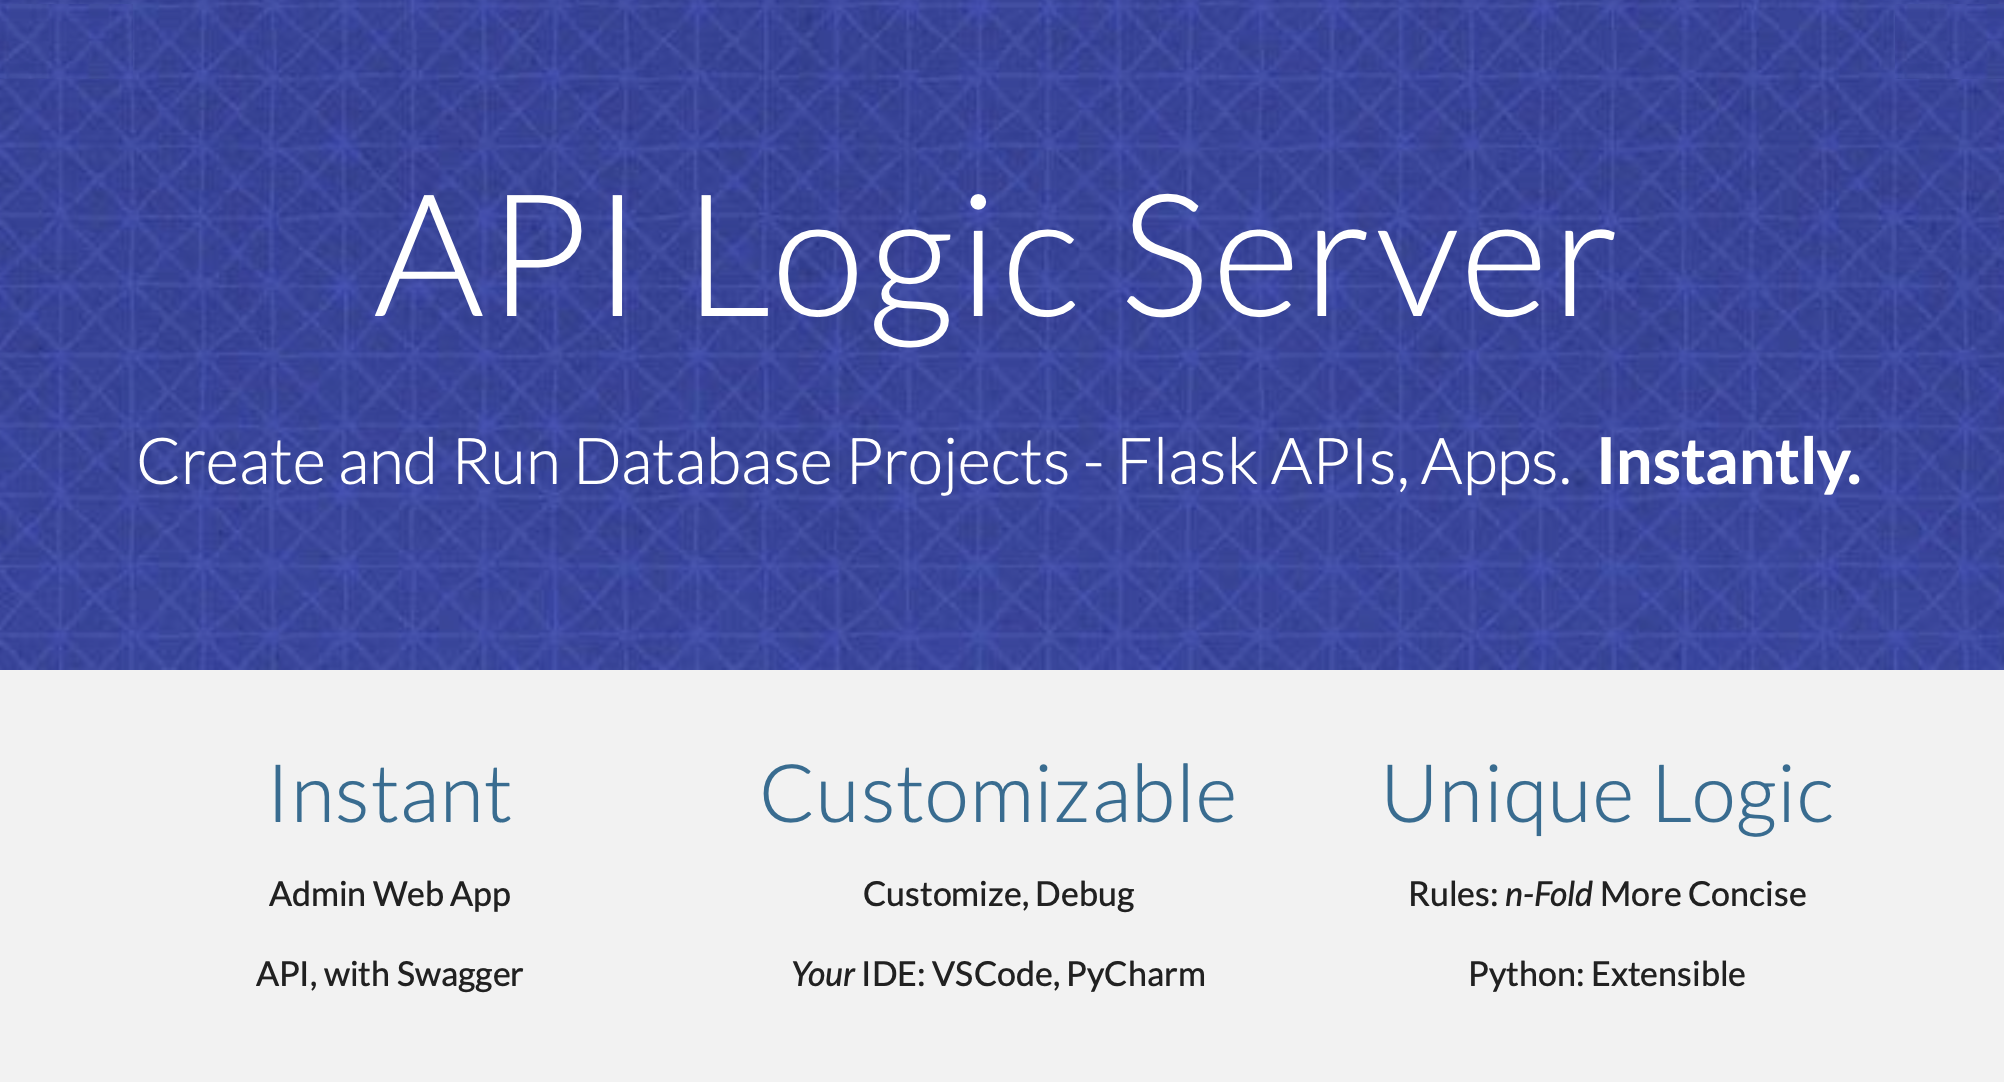
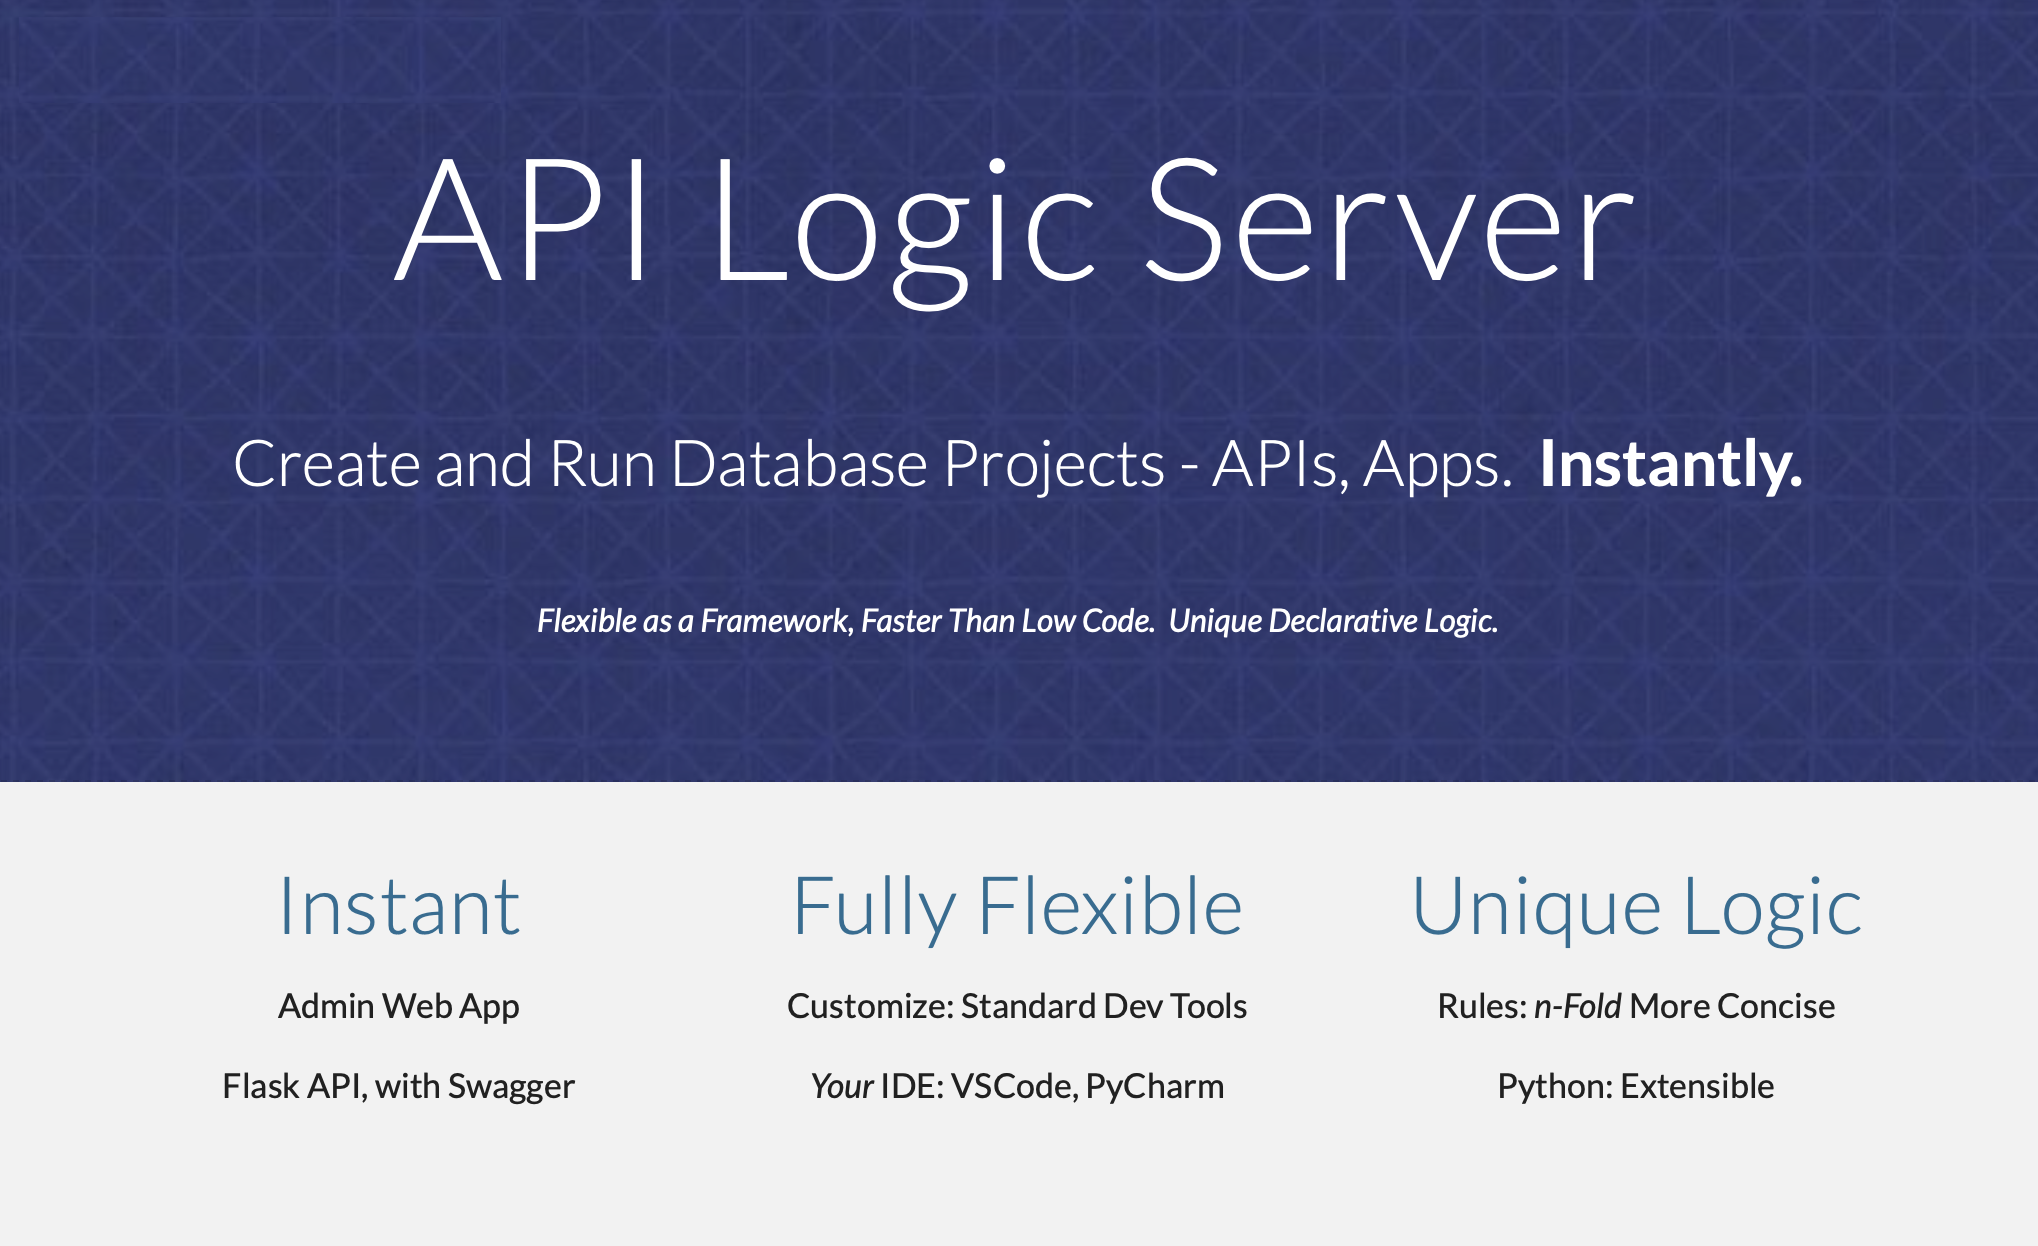
align customization / flexibility

diff --git a/docs/index.md b/docs/index.md
@@ -7,11 +7,12 @@ Description: Instantly Create and Run Database Projects - Flask, APIs, SQLAlchem
 [![Latest Version](https://img.shields.io/pypi/v/apilogicserver.svg)](https://pypi.python.org/pypi/apilogicserver/)
 [![Supported Python versions](https://img.shields.io/pypi/pyversions/apilogicserver.svg)](https://pypi.python.org/pypi/apilogicserver/)
 
-[![API Logic Server Intro](https://github.com/ApiLogicServer/Docs/blob/main/docs/images/hero-banner.png?raw=true)](https://apilogicserver.github.io/Docs/ "Single command creates executable, customizable Flask projects")
+[![API Logic Server Intro](images/hero-banner.png)](#instant-evaluation-no-install "Single command creates executable, customizable Flask projects")
+
 
 &nbsp;
 
-!!! pied-piper ":bulb: TL;DR - instant App/API, standard customization, *unique* declarative rules"
+!!! pied-piper ":bulb: TL;DR - instant App/API, fully flexible, *unique* declarative rules"
 
     API Logic Server is the **fastest and simplest** way to create **modern, scalable API-based database systems:**
 
@@ -20,13 +21,13 @@ Description: Instantly Create and Run Database Projects - Flask, APIs, SQLAlchem
         * **an Admin App:** multi-page, multi-table apps -- ready for business user agile collaboration
         * **an API:** end points for each table, with filtering, sorting, pagination and related data access -- ready for custom app dev
 
-    2. **Customize** and debug with the full flexibility of **<span style="background-color:Azure;">standard dev tools</span>**.  Use *your IDE (e.g. <span style="background-color:Azure;">VSCode, PyCharm</span>)*, <span style="background-color:Azure;">Python</span>, and Flask/SQLAlchemy to create new services.  Manage projects with <span style="background-color:Azure;">GitHub</span>.
+    2. **Fully Flexible:** customize and debug with **<span style="background-color:Azure;">standard dev tools</span>**.  Use *your IDE (e.g. <span style="background-color:Azure;">VSCode, PyCharm</span>)*, <span style="background-color:Azure;">Python</span>, and Flask/SQLAlchemy to create new services.  Manage projects with <span style="background-color:Azure;">GitHub</span>.
 
         * Flexible as a framework, Faster then Low Code for Admin Apps
 
-    3. ***Declare* security and multi-table constraint/validation logic**, using unique spreadsheet-like rules.  Logic consists of rules, extensible with Python event code as required.
+    3. ***Declare* security and multi-table constraint/validation logic**, using **declarative spreadsheet-like rules**.  Logic consists of rules, extensible with Python event code as required.
 
-        * 40X more concise than code - Unique to API Logic Server :trophy:
+        * 40X more concise than code - *unique* to API Logic Server &nbsp;&nbsp; :trophy:
 
     4. **DevOps Ready** - container support presupplied, enabling **<span style="background-color:Azure;">standard infrastructure:</span>**
 
